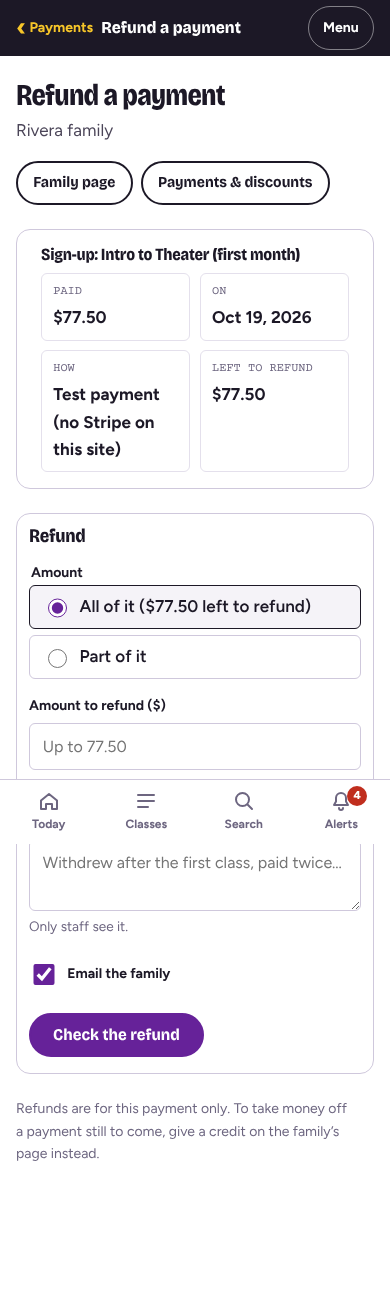
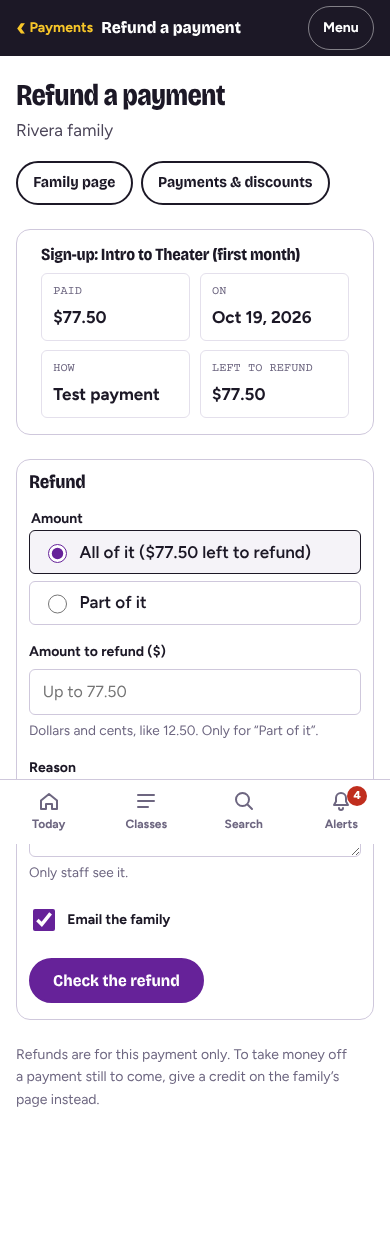
Refunds and credits: report, state and screenshots
Claude-Session: https://claude.ai/code/session_011ReX8JGboC8cqpD2sQ9jZe

diff --git a/.orchestration/refunds-credits/report.md b/.orchestration/refunds-credits/report.md
@@ -1,0 +1,84 @@
+# Report: refunds, credits and a yearly statement
+
+Branch `claude/bo2-refunds-credits`. No compaction or restart happened during this unit.
+
+## Result
+
+**What changes for Hannah**
+- **Refund** button next to every payment on a family's page (new **Payment history**), on the order page (new **Payments made**), and next to a cancelled, paid drop-in (including "Paid twice") on the class page. After **Remove** on a class page, the notice links to **Refund part of a payment**. Every "refund it in the Stripe dashboard" line is gone.
+- The refund form shows the payment, what's been refunded, then **All of it ($X left to refund)** or **Part of it**, a staff-only reason, **Email the family** (ticked), a preview, then **Refund $X**. Payments marked "Paid by cash/check" get **Record a refund given by cash or check** instead. Pending refunds that Stripe didn't answer get **Try again**.
+- **Credits** on each family's page → **Add a credit** (amount, reason, "Show the reason to the family"), with a preview of which payment it comes off and the new amount; **Remove** for waiting or unpaid ones.
+- **Days off:** each day off with "Already paid" families lists them with one class's worth and **Give these credits** (once only).
+- **Payments received** lists refunds as their own lines (−$10, "Refund to card" / "Refund by cash or check", pending marked), so the month's total is net; the count reads "3 payments, 1 refund".
+- **Statements** on the family's page: CSV and PDF per year.
+
+**What changes for families**
+- Refund email: "Refund of $X for <what>", and that it takes 5–10 days to reach their card (or "given back by cash or check").
+- Account: "Partly refunded: $5 of $77.50" / "Refunded $X" on receipts; **Credits** ("Credit: −$10, Missed class · comes off your Tue, Dec 1 payment"); the credit on the payment line as discounts show; **Statements** (PDF, CSV) for each year they paid in, replacing "email us for a statement".
+
+**By file**
+- New `src/server/refunds.ts`: payments and their refunds (`Payment`, `familyPayments`, `loadPayment`, `orderPayments`), the math (`refundLeft`, `refundNote`), `createRefund`, `retryRefund`, `settleRefund`, the email, `refundsMade` (Payments received), `refundedByOrder`, `enrollmentOrder`.
+- New `src/server/credits.ts`: `planCredit`, `addCredit`, `previewCredit`, `removeCredit`, `applyWaitingCredits` (with reconcile), `familyCredits`.
+- New `src/server/day-off-credits.ts`: `dayOffCredits`, `giveDayOffCredits`.
+- New `src/server/statements.ts`: `buildStatement` (pure), `statementTable`, `familyStatement`, the two download handlers.
+- `src/server/stripe.ts`: `stripeRefunder`, `paymentCardLast4`.
+- `src/pages/api/stripe/webhook.ts`: `refund.updated`, `refund.failed` → `settleRefund`.
+- `src/server/billing.ts`: `applyWaitingCredits()` at the start of `runBilling`, after `reapplyPendingAdjustments` (the one change to the run).
+- `src/server/family.ts`: `fulfillOrder` applies the family's waiting credits after a monthly sign-up.
+- `src/server/payments-admin.ts`: refunds in `paymentsReceived`; `howPaid`, `signedCents`, `receivedCount`.
+- `src/server/downloads.ts`: optional `madeFor` on PDFs (default unchanged).
+- `src/server/drop-ins.ts`: `PAID_TWICE` wording.
+- Content: `site.statements = { taxId?, note? }` (`types.ts`, `pages.ts` "Payment statements" group, `site-content.ts` → `SiteInfo.statements`). Empty by default; nothing invented.
+- Pages: new `admin/payments/[orderId]/refund.astro`, `admin/families/[householdId]/credits.astro`, `statement.csv.ts`/`.pdf.ts` (staff and `/account/`), component `components/admin/FamilyMoney.astro`; edits to the order page, family page (one line), class page, Days off page, Payments page, account page.
+- `src/lib/admin-links.ts`: `refundPage`, `creditsPage`, `familyStatement`.
+- Docs: `back-office.md` §21 and three routes; `staff-billing.md` Refunds, Credits, Statements and the old Stripe lines; `security.md`; `infrastructure.md` webhook events (now 6); README test list.
+- Tests: `tests/unit/refunds-credits.test.ts` (24 tests), `tests/e2e/staff-refunds.mjs`.
+
+## Proof
+
+All with Stripe keys blanked.
+- `npm run check`: 0 errors, 0 warnings (308 files).
+- `npm test`: 37 files, 733 tests pass.
+- `npm run build`: passes.
+- Browser tests, fresh database (`tests/e2e/serve.sh`), in README order: all 18 pass (enroll-journey, trial-journey, content-editor, navigation, staff-foundation, staff-contacts, staff-classes, staff-families, staff-payments, staff-today, staff-messages with `SERVER_LOG`, staff-roster, staff-settings, staff-teach, staff-calendar, staff-drop-ins, staff-refunds with 54 checks).
+- Billing check: copied `.data/e2e` right after enroll-journey and trial-journey, `APP_ENV=development PGLITE_DIR=<copy> npm run -s billing:run -- --today 2026-12-01` → charged 2: "$80.75 · December tuition: Ava … (Family discount (15%): −$14.25)" and "$55 · December tuition: Maya … (Scholarship: −$40)", no credit lines, 0 errors.
+- Unit tests cover: the most that can be refunded (pending counted, failed not, two refunds at once: one passes); the pending row at the moment Stripe is called, the refund id sent, `refund-<id>` key in `stripe.ts`; stand-ins that succeed, fail, stay pending then settle by webhook (and a later failure), and don't answer then Try again with the same id; cash and test refunds without Stripe; a credit across two orders; a credit bigger than the payment; waiting credits applied at a new sign-up and at the billing run; a credit going back to waiting after Stop payments; removing before and after applying, paid ones refused; day-off credits given once; statement totals with a refund (and a refund counted in the year it was made); teachers refused for refunds, retries, credits and day-off credits.
+- Existing tests changed: `tests/e2e/enroll-journey.mjs` checked that the account's statement line was a `mailto:` link; it now checks the link to `/account/statement.pdf?year=` (the behavior this unit replaces), plus its step label.
+- Screenshots in `.orchestration/refunds-credits/shots/`: refund form and preview, refunded payment (family page), credit form and preview, the family's account with a credit, at 1280 and 390 px; `statement-pdf.png` (page 1 of the family's PDF).
+
+## Decisions
+- **Refund route** `/admin/payments/<order>/refund?installment=`: every payment belongs to an order. Fresh sign-in on the whole page (GET and POST), as Settings does, so typed values are never lost to the confirm step mid-refund.
+- **Concurrency:** the order row is locked (`for update`) in the transaction that re-checks what's left and inserts the row. Simple and covers sign-up and monthly refunds of the same order.
+- **Card vs test vs cash** is read from what's stored: `pi_`/`cs_` ids are card; "paid outside Stripe" is cash; anything else paid is a test payment (refundable without Stripe only where `testRefundsAllowed()`, the same rule as test payments). A card payment's refund is Stripe only; a cash one is cash only.
+- **Sign-up PaymentIntent** read from the checkout session at refund time (no migration, no new column).
+- **Stripe not answering** keeps the row `pending` with a note and a Try again button (same idempotency key) rather than marking it failed, since Stripe may have made it.
+- **Webhook:** `refund.updated` and `refund.failed` (both exist in stripe@22's event list). A failed refund is final; a succeeded one can later fail.
+- **Credit labels:** the adjustment is always shown to the family, as "Credit · <reason>" or just "Credit" for a private reason, so a private credit never reads "Discount".
+- **Credit split:** the original row's amount becomes what fits; the rest is a new row "Rest of the credit from Oct 20" and is applied to the next payment right away. A payment left under 50¢ isn't charged (the existing adjustments rule), so a credit can take up to 49¢ more than its amount; recorded as is.
+- **Reconcile** in `applyWaitingCredits`: a credit on a payment later cancelled goes back to waiting; one a payment shrank under keeps what fits and the rest waits. Without this, Stop payments would silently swallow credits.
+- **On the order page**, a credit's adjustment links to Credits instead of offering Remove, so it's removed through the credit.
+- **Day-off credits:** one per family and date (two classes that day add up), id `dayoff-<first closure id>-<household>`; giving twice inserts nothing. When the first month was paid at sign-up, one class's worth uses the order's next month's payment (a full month).
+- **Statement:** card last four read from Stripe per payment (when keys are set), else "card"; refunds counted in the year made; pending refunds listed and marked "(pending)", failed ones left out. Address is HQ's location; name is the site's name. PDF says "Made … for <family>".
+- `removeChild`'s return stays unchanged; the class page looks up the enrollment's order first for the "Refund part of a payment" link.
+
+## Open points
+- **Tax ID and note wording** are empty until Hannah fills them; nothing about deductibility was written. Recommended: Hannah decides.
+- **Credits on families who paid the season up front** wait until their next monthly sign-up. Recommended: fine; for money back now, refund instead.
+- **Credit "remainder under 50¢"** rule (above). Recommended: keep, consistent with discounts.
+- **Stripe idempotency keys expire after 24 hours**: a pending refund retried a day later could in principle be sent twice if the first call actually reached Stripe. Recommended: accept (Try again is for the moment Stripe didn't answer); a follow-up could look the refund up by `metadata.refundId` first.
+
+## Follow-up candidates
+- A "Refund didn't go through" item on Needs attention.
+- Look up a pending refund in Stripe by `metadata.refundId` before retrying.
+- A refunds and credits report for the reports unit.
+- A staff email when a refund fails after succeeding (the webhook records it only).
+
+## Handoff
+- **Routes:** `refundPage(orderId, installmentId?)`, `creditsPage(householdId)`, `familyStatement(householdId, year)` (pass to `downloads()`); families `/account/statement.csv|pdf?year=`.
+- **Functions:** `familyPayments(householdId)` → `Payment[]` (`key`, `kind` signup|monthly|drop_in, `orderId`, `installmentId`, `paidAt`, `amountCents`, `via` card|cash|test|none, `refunds`, `leftCents`); `refundNote`, `refundLeft`; `refundsMade(from, until)`; `refundedByOrder(orderIds)`; `familyCredits(householdId)` → `CreditRow` with `state`; `applyWaitingCredits(householdId?)`; `buildStatement`/`familyStatement`.
+- **Data:** `refund` rows always have `order_id`; `installment_id` set for monthly charges. Pending and succeeded count against the payment; failed doesn't. `credit` rows: waiting = `applied_at` null and `removed_at` null; credits' adjustments are ordinary `billing_adjustment` rows (label "Credit…", `closure_id` null). Day-off credit ids start `dayoff-`.
+- **Audit actions:** `admin.refund.add|retry`, `refund.succeeded|pending|failed|email`, `admin.credit.add|remove`, `credit.applied|rest|returned`, `admin.statement.csv|pdf`, `statement.csv|pdf`.
+- **Reports unit:** net money for a month = Payments received's rows (refund lines are negative).
+
+## Compaction
+None.

diff --git a/.orchestration/refunds-credits/state.md b/.orchestration/refunds-credits/state.md
@@ -1,17 +1,17 @@
 # Refunds, credits and statements: state
 
-Branch `claude/bo2-refunds-credits`, from `claude/blissful-archimedes-enun5m` (3ab1c0a).
+Branch `claude/bo2-refunds-credits`, from `claude/blissful-archimedes-enun5m` (3ab1c0a). No compaction or restart.
 
 ## Commits
-- (none yet)
+- Server side and unit tests (refunds.ts, credits.ts, day-off-credits.ts, statements.ts, webhook, billing run, fulfillOrder).
+- Pages (refund form, credits, statements, Give these credits), docs, browser test.
+- Report and screenshots.
 
 ## Decisions
-- No migrations. Day-off credits are marked given by a fixed credit id (`dayoff-<closure id>-<household id>`), so a second press inserts nothing.
-- Every refund locks its order row in the transaction that checks what's left, so two refunds at once can't pass the check together.
-- Card payments' last four on statements are read from Stripe per payment (cached per download); "Card" when unknown.
+See report.md → Decisions.
 
 ## Open questions
-- none
+See report.md → Open points (none blocking).
 
 ## Next action
-- Write src/server/refunds.ts, credits.ts, day-off-credits.ts, statements.ts, then the pages.
+- Done; waiting for the coordinator's merge.
